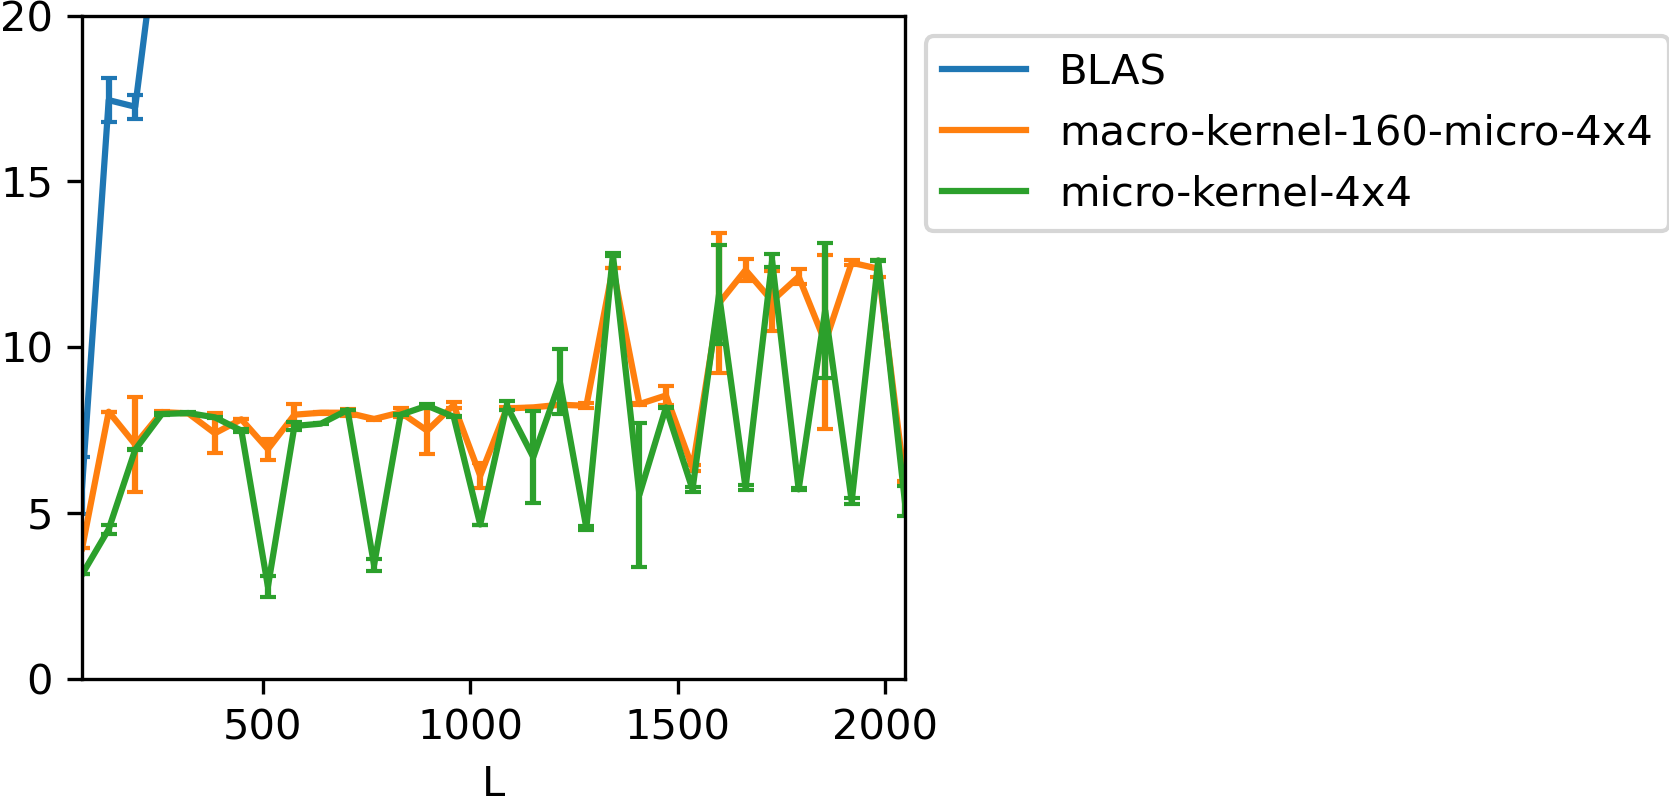
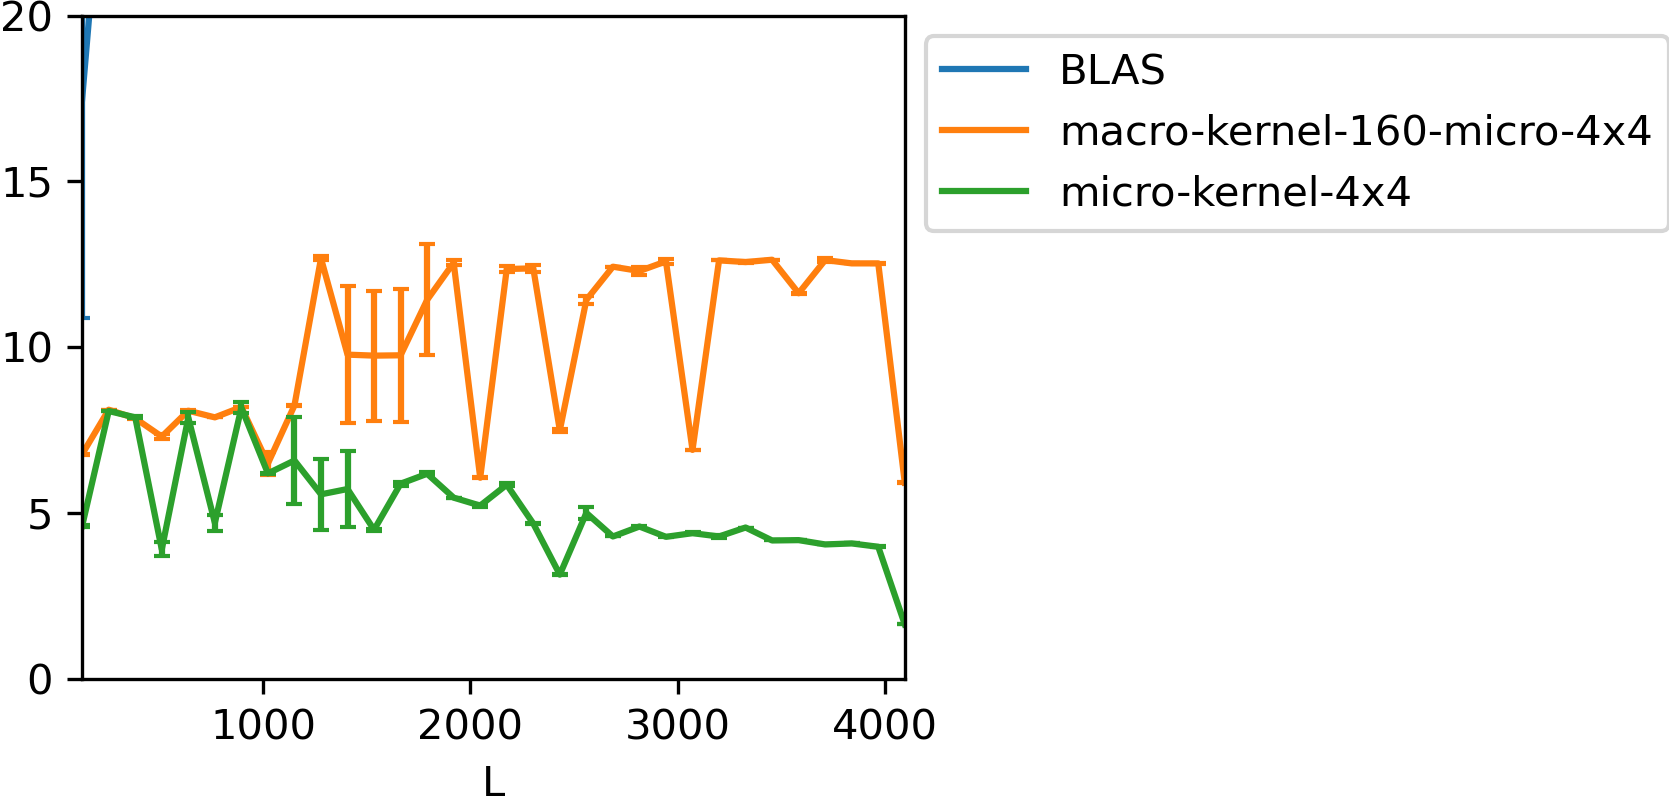
Update performance benchmarking results for matrix multiplication kernels
- Add comprehensive performance measurements for micro and macro kernels
- Extend benchmark range from 2176 to 4096 matrix sizes
- Update plot/tmp with detailed performance and error metrics
- Remove deprecated dgemm-nkm-320.c implementation
- Generate new performance visualization in plot/out.png

diff --git a/src/pack/dgemm-pack.c b/src/pack/dgemm-pack.c
@@ -1,0 +1,153 @@
+#define M_BLOCK_SIZE  384
+#define K_BLOCK_SIZE  384
+#define N_BLOCK_SIZE  4096
+
+#define BLOCK_SIZE  4
+#define BLOCK_SIZE  4
+
+#define min(a, b) ((a) < (b) ? (a) : (b))
+
+
+
+static void pack_A(int mc, int kc, const double *A, int LDA, double *buffer)
+{
+    int mp  = mc / BLOCK_SIZE;
+    int _mr = mc % BLOCK_SIZE;
+
+    int i, j;
+
+    for (i=0; i<mp; ++i) {
+        for (j=0; j<kc; ++j) {
+            for (int ii=0; ii<BLOCK_SIZE; ++ii) {
+                buffer[ii] = A[i*BLOCK_SIZE*LDA + ii + j*LDA];
+            }
+            buffer += BLOCK_SIZE;
+        }
+    }
+    if (_mr > 0) {
+        for (j=0; j<kc; ++j) {
+            for (i=0; i<_mr; ++i) {
+                buffer[i] = A[(mp*BLOCK_SIZE+i) + j*LDA];
+            }
+            for (i=_mr; i<BLOCK_SIZE; ++i) {
+                buffer[i] = 0.0;
+            }
+            buffer += BLOCK_SIZE;
+        }
+    }
+}
+
+static void pack_B(int kc, int nc, const double *B, int LDB, double *buffer)
+{
+    int np  = nc / BLOCK_SIZE;
+    int _nr = nc % BLOCK_SIZE;
+
+    int i, j;
+
+    for (j=0; j<np; ++j) {
+        for (i=0; i<kc; ++i) {
+            for (int jj=0; jj<BLOCK_SIZE; ++jj) {
+                buffer[jj] = B[i + (j*BLOCK_SIZE+jj)*LDB];
+            }
+            buffer += BLOCK_SIZE;
+        }
+    }
+    if (_nr > 0) {
+        for (i=0; i<kc; ++i) {
+            for (j=0; j<_nr; ++j) {
+                buffer[j] = B[i + (np*BLOCK_SIZE+j)*LDB];
+            }
+            for (j=_nr; j<BLOCK_SIZE; ++j) {
+                buffer[j] = 0.0;
+            }
+            buffer += BLOCK_SIZE;
+        }
+    }
+}
+
+static void dgemm_micro_kernel(int kc, double *A, double *B, double *C, int LDC)
+{
+    int i, j, l;
+
+    for (l=0; l<kc; ++l) {
+        for (j=0; j<BLOCK_SIZE; ++j) {
+            for (i=0; i<BLOCK_SIZE; ++i) {
+                C[i + j*LDC] += A[i] * B[j];
+            }
+        }
+        A += BLOCK_SIZE;
+        B += BLOCK_SIZE;
+    }
+}
+
+static void dgemm_macro_kernel(int M, int N, int K, double *A, double *B, double *C, int LDC)
+{
+    int mp = (M+BLOCK_SIZE-1) / BLOCK_SIZE;
+    int np = (N+BLOCK_SIZE-1) / BLOCK_SIZE;
+
+    int _mr = M % BLOCK_SIZE;
+    int _nr = N % BLOCK_SIZE;
+
+    int mr, nr;
+    int i, j;
+
+    int m_inc, n_inc, k_inc;
+    for (int m = 0; m < M;) {
+        m_inc = min(M_BLOCK_SIZE, M - m);
+
+        for (int n = 0; n < N;) {
+            n_inc = min(N_BLOCK_SIZE, N - n);
+
+            if (m_inc == M_BLOCK_SIZE && n_inc == N_BLOCK_SIZE) {
+                dgemm_micro_kernel(
+                    K, &A[m * M_BLOCK_SIZE + k * K_BLOCK_SIZE * M], 
+                    &B[n * N_BLOCK_SIZE + k * K_BLOCK_SIZE * N], 
+                    &C[m * M_BLOCK_SIZE + n * N_BLOCK_SIZE * LDC], 
+                    LDC
+                    );
+            } else {
+                for (int k=0; k<K; ++k) {
+                    for (int n=0; n<n_inc; ++n) {
+                        for (int m=0; m<m_inc; ++m) {
+                            C[m * M_BLOCK_SIZE + n * N_BLOCK_SIZE * LDC] += A[m * M_BLOCK_SIZE + k * K_BLOCK_SIZE * M] * B[n * N_BLOCK_SIZE + k * K_BLOCK_SIZE * N];
+                        }
+                    }
+                }
+            }
+        }
+    }
+}
+
+void dgemm(int M, int N, int K, double *restrict A, double *restrict B, double *restrict C)
+{
+    int LDA = M;
+    int LDB = K;
+    int LDC = M;
+
+    double *A_packed = (double *) malloc(M_BLOCK_SIZE * K_BLOCK_SIZE * sizeof(double));
+    double *B_packed = (double *) malloc(K_BLOCK_SIZE * N_BLOCK_SIZE * sizeof(double));
+
+    int m_inc, n_inc, k_inc;
+    for (int k = 0; k < K;) {
+        k_inc = min(K_BLOCK_SIZE, K - k);
+
+        for (int n = 0; n < N;) {
+            n_inc = min(N_BLOCK_SIZE, N - n);
+            pack_B(kc, nc, &B[n * N_BLOCK_SIZE + k * K_BLOCK_SIZE * K], K, B_packed);
+
+            for (int m = 0; m < M;) {
+                m_inc = min(M_BLOCK_SIZE, M - m);
+                pack_A(m_inc, kc, &A[m * M_BLOCK_SIZE + k * K_BLOCK_SIZE * M], M, B_packed);
+
+                macro_kernel(
+                    m_inc, n_inc, k_inc,
+                    A_packed, B_packed,
+                    C + m + n * LDC, LDC
+                );
+                m += m_inc;
+            }
+            n += n_inc;
+        }
+        k += k_inc;
+    }
+}
